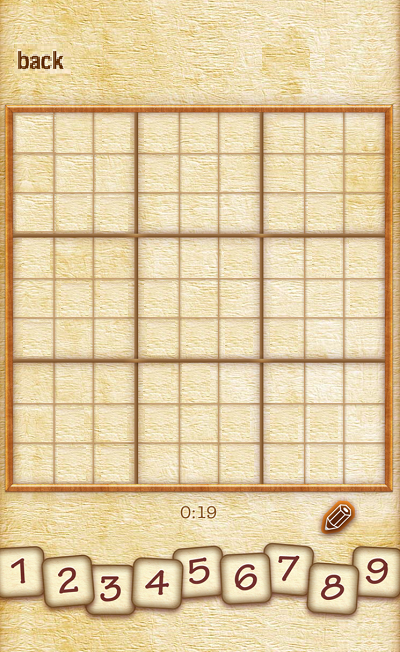
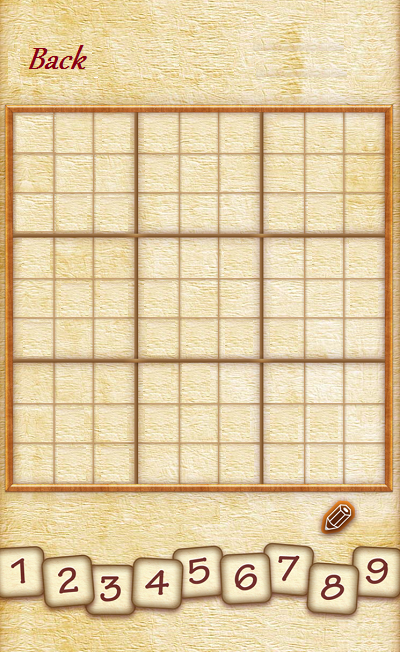
Modifications

Changed region(s): [[0.0, 0.0613, 0.45, 0.1534], [0.63, 0.0307, 0.87, 0.1227], [0.42, 0.7669, 0.57, 0.8282]]

diff --git a/Sudoku/States/GameState.cs b/Sudoku/States/GameState.cs
@@ -1,5 +1,7 @@
 namespace Sudoku.States
 {
+    using System;
+
     using Microsoft.Xna.Framework;
     using Microsoft.Xna.Framework.Graphics;
     using Microsoft.Xna.Framework.Input;
@@ -10,6 +12,7 @@
 
     public class GameState : IState
     {
+        private readonly TimeSpan startTime;
         private readonly Rectangle[] digitAreas;
         private Button[] digitButtons;
 
@@ -18,11 +21,16 @@
 
         private readonly int[,] matrix;
 
+        private Button backButton;
+        private Rectangle backButtonArea;
+
         private int currentDigit = 0;
 
-        public GameState(IState callerState)
+        public GameState(IState callerState, GameTime startTime)
         {
+
             this.callerState = callerState;
+            this.startTime = startTime.TotalGameTime;
             this.digitAreas = new Rectangle[9];
             this.digitAreas[0] = new Rectangle(0, 549, 41, 46);
             this.digitAreas[1] = new Rectangle(42, 559, 50, 46);
@@ -33,7 +41,7 @@
             this.digitAreas[6] = new Rectangle(271, 546, 38, 47);
             this.digitAreas[7] = new Rectangle(312, 565, 42, 45);
             this.digitAreas[8] = new Rectangle(358, 549, 42, 46);
-
+            this.backButtonArea = new Rectangle(26, 43, 63, 30);
             this.boardAreas = new Rectangle[9, 9];
             for (int i = 0; i < 9; i++)
             {
@@ -46,13 +54,13 @@
             this.matrix = new int[9, 9];
         }
 
-        public void Draw(SpriteBatch spriteBatch)
+        public void Draw(GameTime gameTime, SpriteBatch spriteBatch)
         {
             spriteBatch.Begin();
             spriteBatch.Draw(Assets.GameStateTexture, Vector2.Zero);
             for (int i = 0; i < 9; i++)
             {
-                this.digitButtons[i].Draw(spriteBatch);
+                this.digitButtons[i].Draw(gameTime, spriteBatch);
             }
 
             for (int i = 0; i < 9; i++)
@@ -66,6 +74,9 @@
                 }
             }
 
+            this.backButton.Draw(gameTime, spriteBatch);
+            var elapsedTime = gameTime.TotalGameTime - this.startTime;
+            spriteBatch.DrawString(Assets.Font1, elapsedTime.ToString("mm\\:ss"), new Vector2(170, 500), Color.DarkRed);
             spriteBatch.End();
         }
 
@@ -97,10 +108,18 @@
                     }
                 }
             }
+
+            this.backButton.IsHighlighted = this.backButtonArea.Contains(Mouse.GetState().Position);
+            if (this.backButtonArea.Contains(Mouse.GetState().Position) 
+                && Mouse.GetState().LeftButton == ButtonState.Pressed)
+            {
+                StateManager.CurrentState = this.callerState;
+            }
         }
 
         public void LoadButtons()
         {
+            this.backButton = new Button(Assets.BackButton, Assets.BackButtonHighlighted, new Vector2(20, 40));
             this.digitButtons = new Button[9];
             this.digitButtons[0] = new Button(Assets.DigitButtons[0], Assets.DigitButtonsHighlighted[0], new Vector2(0, 549));
             this.digitButtons[1] = new Button(Assets.DigitButtons[1], Assets.DigitButtonsHighlighted[1], new Vector2(42, 559));

diff --git a/Sudoku/States/MainMenuState.cs b/Sudoku/States/MainMenuState.cs
@@ -23,6 +23,7 @@
         private Button helpButton;
         private Button aboutButton;
 
+        private GameTime time;
 
         public MainMenuState()
         {
@@ -40,14 +41,14 @@
             this.aboutButton = new Button(Assets.ButtonAbout, Assets.ButtonAboutHighlighted, new Vector2(220, 450));
         }
 
-        public void Draw(SpriteBatch spriteBatch)
+        public void Draw(GameTime gameTime, SpriteBatch spriteBatch)
         {
             spriteBatch.Begin();
             spriteBatch.Draw(Assets.MainMenuTexture, Vector2.Zero);
-            this.playButton.Draw(spriteBatch);
-            this.solveButton.Draw(spriteBatch);
-            this.helpButton.Draw(spriteBatch);
-            this.aboutButton.Draw(spriteBatch);                
+            this.playButton.Draw(gameTime, spriteBatch);
+            this.solveButton.Draw(gameTime, spriteBatch);
+            this.helpButton.Draw(gameTime, spriteBatch);
+            this.aboutButton.Draw(gameTime, spriteBatch);                
             spriteBatch.End();
         }
 
@@ -75,13 +76,15 @@
             {
                 this.OnButtonClicked(ButtonNames.About);
             }
+
+            this.time = gameTime;
         }
 
         private void OnButtonClicked(ButtonNames button)
         {
             if (this.ButtonClicked != null)
             {
-                ButtonClickedEventArgs args = new ButtonClickedEventArgs(button);
+                ButtonClickedEventArgs args = new ButtonClickedEventArgs(button, this.time);
                 this.ButtonClicked(this, args);
             }
         }

diff --git a/Sudoku/Core/GameEngine.cs b/Sudoku/Core/GameEngine.cs
@@ -32,7 +32,6 @@
         /// </summary>
         protected override void Initialize()
         {
-            // TODO: Add your initialization logic here
             MainMenuState menu = new MainMenuState();
             menu.ButtonClicked += this.MainMenu_ButtonClicked;
             StateManager.CurrentState = menu;
@@ -50,8 +49,6 @@
             this.spriteBatch = new SpriteBatch(this.GraphicsDevice);            
             Assets.Initialize(this);
             StateManager.CurrentState.LoadButtons();
-            
-            // TODO: use this.Content to load your game content here
         }
 
         /// <summary>
@@ -91,7 +88,7 @@
 
             if (StateManager.CurrentState != null)
             {
-                StateManager.CurrentState.Draw(this.spriteBatch);
+                StateManager.CurrentState.Draw(gameTime, this.spriteBatch);
             }
 
             base.Draw(gameTime);
@@ -102,7 +99,7 @@
             switch (eventargs.Button)
             {
                 case ButtonNames.Play:
-                    var newGameState = new GameState(StateManager.CurrentState);
+                    var newGameState = new GameState(StateManager.CurrentState, eventargs.Time);
                     newGameState.LoadButtons();
                     StateManager.CurrentState = newGameState;                    
                     break;

diff --git a/Sudoku/States/SolveState.cs b/Sudoku/States/SolveState.cs
@@ -57,15 +57,15 @@
             this.matrix = new int[9, 9];
         }
 
-        public void Draw(SpriteBatch spriteBatch)
+        public void Draw(GameTime gameTime, SpriteBatch spriteBatch)
         {
             spriteBatch.Begin();
             spriteBatch.Draw(Assets.SolveStateTexture, Vector2.Zero);
-            this.backButton.Draw(spriteBatch);
-            this.solveButton.Draw(spriteBatch);
+            this.backButton.Draw(gameTime, spriteBatch);
+            this.solveButton.Draw(gameTime, spriteBatch);
             for (int i = 0; i < 9; i++)
             {
-                this.digitButtons[i].Draw(spriteBatch);
+                this.digitButtons[i].Draw(gameTime, spriteBatch);
             }
 
             for (int i = 0; i < 9; i++)
@@ -77,10 +77,9 @@
                         spriteBatch.Draw(Assets.Digits[this.matrix[i, j] - 1], new Vector2(i * 42 + 12, j * 42 + 112));
                     }
                 }
-            }
+            }            
 
             if (this.noValidSolution) spriteBatch.Draw(Assets.NoSolutionMessage, new Vector2(117, 75));
-
             spriteBatch.End();
         }
 

diff --git a/Sudoku/States/AboutState.cs b/Sudoku/States/AboutState.cs
@@ -9,7 +9,7 @@
 
     using Microsoft.Xna.Framework.Input;
 
-    class AboutState : IState
+    public class AboutState : IState
     {
         private Rectangle backButtonArea;
         private Button backButton;
@@ -22,11 +22,11 @@
             this.backButtonArea = new Rectangle(30, 20, 40, 18);
         }
 
-        public void Draw(SpriteBatch spriteBatch)
+        public void Draw(GameTime gameTime, SpriteBatch spriteBatch)
         {
             spriteBatch.Begin();
             spriteBatch.Draw(Assets.AboutStateTexture, Vector2.Zero);
-            this.backButton.Draw(spriteBatch);
+            this.backButton.Draw(gameTime, spriteBatch);
             spriteBatch.End();
         }
 

diff --git a/Sudoku/Assets.cs b/Sudoku/Assets.cs
@@ -29,6 +29,8 @@
         public static Texture2D ButtonAbout { get; private set; }
         public static Texture2D ButtonAboutHighlighted { get; private set; }
 
+        public static SpriteFont Font1;
+
         public static void Initialize(GameEngine game)
         {
             MainMenuTexture = game.Content.Load<Texture2D>("mainMenu");
@@ -68,6 +70,8 @@
             {
                 DigitButtonsHighlighted[i] = game.Content.Load<Texture2D>("ButtonDigit" + (i + 1) + "HighLighted");
             }
+
+            Font1 = game.Content.Load<SpriteFont>("font1");
         }
     }
 }

diff --git a/Sudoku/Events/ButtonClickedEventArgs.cs b/Sudoku/Events/ButtonClickedEventArgs.cs
@@ -2,13 +2,17 @@
 {
     using System;
 
+    using Microsoft.Xna.Framework;
+
     public class ButtonClickedEventArgs : EventArgs
     {
-        public ButtonClickedEventArgs(ButtonNames button)
+        public ButtonClickedEventArgs(ButtonNames button, GameTime time)
         {
             this.Button = button;
+            this.Time = time;
         }
 
         public ButtonNames Button { get; set; }
+        public GameTime Time { get; set; }
     }
 }

diff --git a/Sudoku/GameObjects/Button.cs b/Sudoku/GameObjects/Button.cs
@@ -23,7 +23,7 @@
 
         public Vector2 Position { get; set; }
 
-        public void Draw(SpriteBatch spriteBatch)
+        public void Draw(GameTime gameTime, SpriteBatch spriteBatch)
         {
             spriteBatch.Draw(this.IsHighlighted ? this.ImageHighlighted : this.Image, this.Position);
         }

diff --git a/Sudoku/Interfaces/IDrawable.cs b/Sudoku/Interfaces/IDrawable.cs
@@ -1,9 +1,10 @@
 namespace Sudoku.Interfaces
 {
+    using Microsoft.Xna.Framework;
     using Microsoft.Xna.Framework.Graphics;
 
     public interface IDrawable
     {
-        void Draw(SpriteBatch spriteBatch);
+        void Draw(GameTime gameTime, SpriteBatch spriteBatch);
     }
 }

diff --git a/Sudoku/States/HelpState.cs b/Sudoku/States/HelpState.cs
@@ -14,7 +14,7 @@
             this.callerState = callerState;
         }
 
-        public void Draw(SpriteBatch spriteBatch)
+        public void Draw(GameTime gameTime, SpriteBatch spriteBatch)
         {
             throw new System.NotImplementedException();
         }
